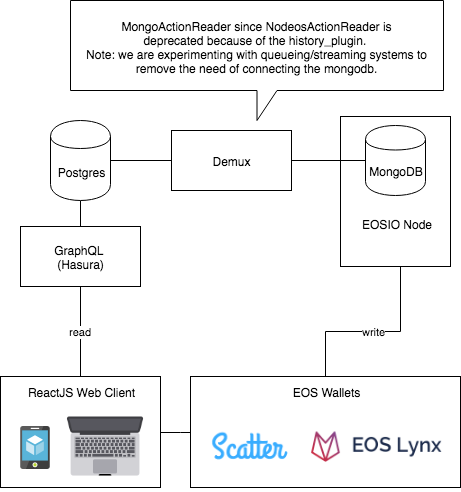
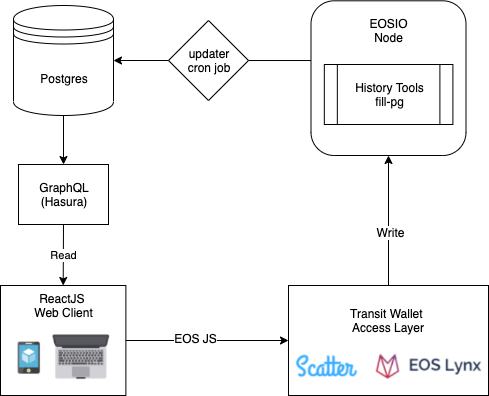
docs(architecture) Update architecture diagram

diff --git a/readme.md b/readme.md
@@ -23,7 +23,7 @@
 	<img src="docs/eosrate-logo-black.png" width="600">
 </p>
 
-# A Rating System and Voting Portal for the EOS Community
+# A Rating Portal for the EOS Community
 
 EOS Rate is a community-driven visual rating tool that allows EOS token holders to easily rate Block Producers in distinct categories.
 
@@ -101,20 +101,22 @@ We are running a demux and hasura on premises in Costa Rica.
 
 ## App Services
 
-- frontend: http://localhost:3000  
-  It's create-react-app that starts up at the available port (default is 3000).
+- **frontend:** http://localhost:3000  
+  A React JS Web Client based on create-react-app that starts up at the available port (default is 3000).
 
-- demux:  
-  Deterministic event-sourced state and side effect handling for blockchain applications.  
-  The service runs on linux alpine container.
-  Configure this service to listen to right MongoDB instance in `docker-compose.yml`.
-
-- hasura: http://localhost:8088  
-  Autogenerated GraphQL API based on the PostgresDB Schema..  
+- **[hasura](https://hasura.io)** http://localhost:8088  
+  Autogenerated GraphQL API based on the PostgresDB Schema. 
   Run `make hasura` to start the management console.
 
-- pgweb: http://localhost:8082  
+- **pgweb:** http://localhost:8082  
   Web-based PostgreSQL database browser written in Go running on a linux alpine container.
+
+- **updater:**
+  Cron Job that periodically synchronises BP data from blockchain and bp.JSON files.
+  
+- **EOSIO Node:** https://api.eosio.cr
+<br/>[`fill-pg`](https://github.com/EOSIO/history-tools#fill-pg) fills postgresql with data from nodeos's State History Plugin. 
+  
 
 _Note: This project is based on [EOS DApp Boilerplate](https://github.com/eoscostarica/eos-dapp-boilerplate)._
 
@@ -144,7 +146,7 @@ make start
 
 ## Design Assets
 
-https://scene.zeplin.io/project/5a58ea3341f76658994e000c
+[Zeplin Artboards](https://scene.zeplin.io/project/5a58ea3341f76658994e000c)
 
 ![](docs/eosrate-scenes.png)
 
